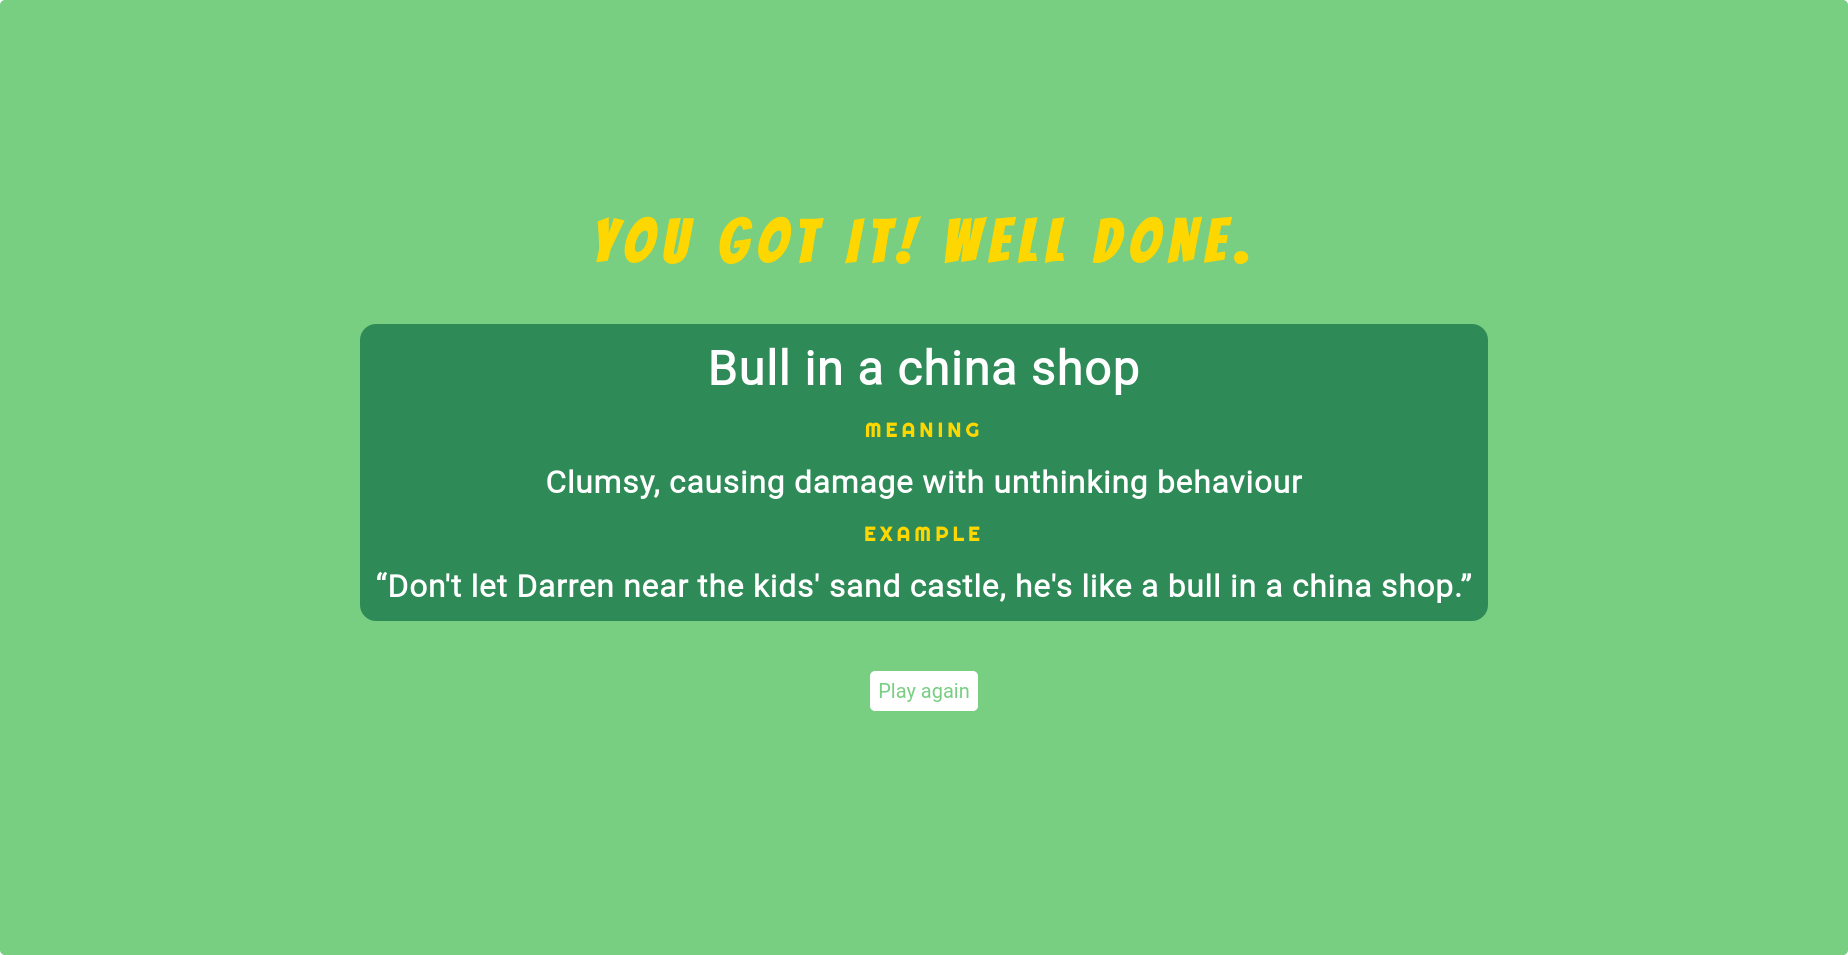
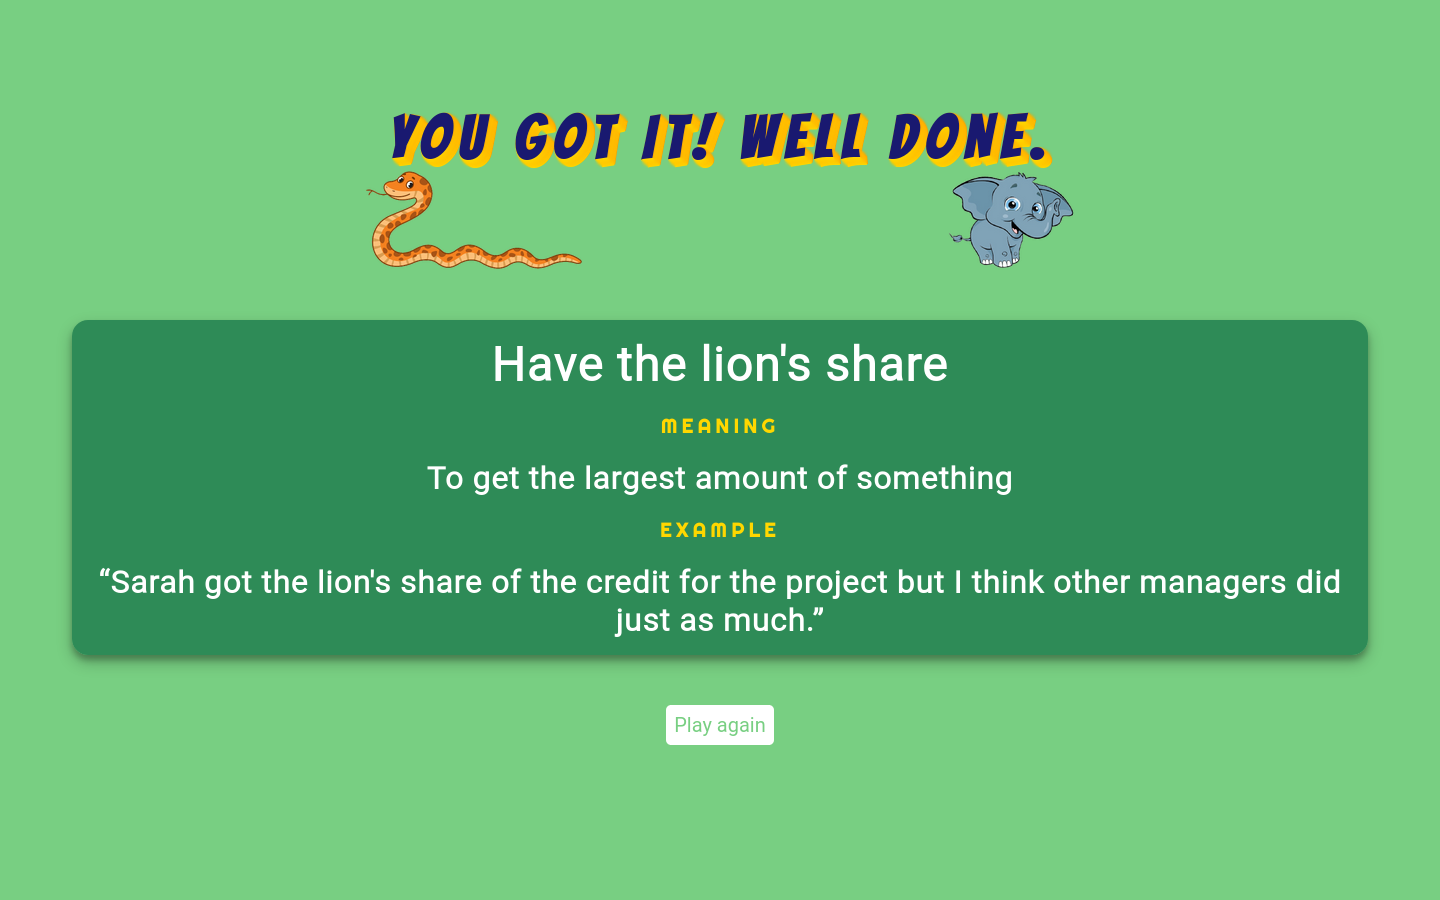
added background image and adapted colors for contrast

Changed region(s): [[0.0312, 0.1244, 0.9688, 0.7467], [0.4375, 0.7778, 0.5625, 0.84]]

diff --git a/css/styles.css b/css/styles.css
@@ -7,10 +7,8 @@
   --color-lose: #D94545;
   --color-start: #5b85b7;
   --color-neutral: #445069;
-  --color-neutral-light: #D2D2D2;
   --color-keys: #37474F;
-  --color-keys-light: #E5E5E5;
-  --color-keys-hover: #A0A0A0;
+  --color-keys-hover: #a64d4d;
   --font-size-large: 60px;
   --font-size-medium: 20px;
   --transition: all .2s ease-in-out;
@@ -26,23 +24,37 @@
 }
 
 body {
-  justify-content: space-evenly;
   flex-direction: column;
   display: flex;
   min-height: 100vh;
+  background-color: #a0cbd1;
+  background-image: url("../images/background.jpg");
+  background-size: contain;
+  background-repeat: no-repeat;
+  background-position: bottom;
 }
 
 main {
   display: flex;
   flex-direction: column;
-  justify-content: space-around;
   min-height: 100%;
   text-align: center;
+  margin-top: 2.5%;
 }
 
 li, ol, ul {
   padding: 0;
   display: inline-block;
+}
+
+ol {
+  background-color: #FFFFF0;
+  padding: .5rem .75rem .0;
+  border-radius: 20px;
+}
+
+h1 {
+  font-size: 0;
 }
 
 h2 {
@@ -88,7 +100,8 @@ h3 {
 }
 
 .title {
-  color: #FFD700;
+  color: midnightblue;
+  text-shadow: 0 1px 0px #FFD700, 1px 0 0px #FFA500, 1px 2px 1px #FFD700, 2px 1px 1px #FFA500, 2px 3px 2px #FFD700, 3px 2px 2px #FFA500, 3px 4px 2px #FFD700, 4px 3px 3px #FFA500, 4px 5px 3px #FFD700, 5px 4px 2px #FFA500, 5px 6px 2px #FFD700, 6px 5px 2px #FFA500, 6px 7px 1px #FFD700, 7px 6px 1px #FFA500, 7px 8px 0px #FFD700, 8px 7px 0px #FFA500;
 }
 
 .start {
@@ -152,6 +165,7 @@ h3 {
   max-width: 90%;
   padding: 1rem;
   border-radius: 1rem;
+  box-shadow: rgba(0, 0, 0, 0.25) 0px 7px 14px, rgba(0, 0, 0, 0.22) 0px 5px 5px;
 }
 
 .display h3 {
@@ -172,12 +186,13 @@ h3 {
 
 /* title */
 
-.header {
-  color: var(--color-start);
+.heading {
+  color: midnightblue;
+  text-shadow: 0 1px 0px #FFD700, 1px 0 0px #FFA500, 1px 2px 1px #FFD700, 2px 1px 1px #FFA500, 2px 3px 2px #FFD700, 3px 2px 2px #FFA500, 3px 4px 2px #FFD700, 4px 3px 3px #FFA500, 4px 5px 3px #FFD700, 5px 4px 2px #FFA500, 5px 6px 2px #FFD700, 6px 5px 2px #FFA500, 6px 7px 1px #FFD700, 7px 6px 1px #FFA500, 7px 8px 0px #FFD700, 8px 7px 0px #FFA500;
 }
 
-.subheader {
-  color: #777;
+.subheading {
+  color: maroon;
 }
 
 /* images */
@@ -214,7 +229,8 @@ img {
   margin-right: 2px;
   margin-bottom: 8px;
   color: transparent;
-  background: var(--color-neutral-light);
+  background: var(--color-neutral);
+  border: solid 2px var(--color-neutral);
   border-radius: 5px;
 }
 
@@ -228,8 +244,9 @@ img {
   margin-right: 2px;
   margin-bottom: 8px;
   color: #000;
-  background-color: #F0F8FF;
-  border: solid 1px;
+  background-color: white;
+  font-weight: bold;
+  border: solid 2px;
   border-radius: 5px;
   transition: var(--transition);
 }
@@ -239,9 +256,10 @@ img {
   width: 20px;
   margin-right: 2px;
   color: #000;
-  background-color: #F0F8FF;
-  border: solid 1px;
+  background-color: white;
+  border: solid 2px var(--color-neutral);
   border-radius: 5px;
+  font-weight: bold;
 }
 
 @media (min-width: 768px) {
@@ -282,8 +300,8 @@ button {
   margin: 6px;
   border: 1px solid transparent;
   padding: .5rem 1rem;
-  color: var(--color-keys);
-  background-color: var(--color-keys-light);
+  color: white;
+  background-color: maroon;
   border-radius: 5px;
   -webkit-transition: var(--transition);
   -o-transition: var(--transition);
@@ -349,4 +367,13 @@ button:hover {
     transform: translate3d(4px, 0, 0);
   }
 
+}
+
+/* attribution */
+
+.attribution {
+  font-size: .75rem;
+  position: fixed;
+  bottom: 0;
+  z-index: -1;
 }

diff --git a/index.html b/index.html
@@ -11,10 +11,14 @@
   </head>
   <body>
     <main>
-
+      <h1>Phrase guessing game</h1>
       <div id="overlay" class="start">
         <h2 class="title">Guess that Phrase</h2>
         <h3 class="subtitle">Animal Idioms</h3>
+        <div class="img_container">
+          <img src="./images/snake.png" alt="snake">
+          <img src="./images/elephant.png" alt="elephant">
+        </div>
         <div class="display">
           <div class="display__phrase"></div>
           <h3>Meaning</h3>
@@ -25,21 +29,18 @@
         <a class="btn__reset">Start Game</a>
       </div>
 
-      <div id="banner" class="section">
-        <h2 class="header">Guess that Phrase</h2>
-        <h3 class="subheader">Animal Idioms</h3>
-        <div class="img_container">
-          <img src="./images/snake.png" alt="snake">
-          <img src="./images/elephant.png" alt="elephant">
-        </div>
+      <div id="banner">
+        <h2 class="heading">Guess that Phrase</h2>
+        <h3 class="subheading">Animal Idioms</h3>
+
       </div>
 
-      <div id="phrase" class="section">
+      <div id="phrase">
         <span class="loading">Loading phrase...</span>
         <ul></ul>
       </div>
 
-      <div id="qwerty" class="section">
+      <div id="qwerty">
         <div class="keyrow">
           <button>q</button><button>w</button><button>e</button><button>r</button><button>t</button><button>y</button><button>u</button><button>i</button><button>o</button><button>p</button>
         </div>
@@ -51,7 +52,7 @@
         </div>
       </div>
 
-      <div id="scoreboard" class="section">
+      <div id="scoreboard">
         <ol>
           <li class="try"></li>
           <li class="try"></li>
@@ -61,6 +62,9 @@
         </ol>
       </div>
     </main>
+    <div class="attribution">
+        <a href="https://www.freepik.com/free-vector/cute-group-wild-animals-vector_3780571.htm#&position=2&from_view=detail#query=z&position=2&from_view=detail">Background image by rawpixel.com</a> on Freepik.
+    </div>
     <script src="app.js"></script>
   </body>
 </html>

diff --git a/README.md b/README.md
@@ -1,34 +1,39 @@
 # Phrase guessing game
 
 ## Initial project
+
 This project started out as a graded project for [Treehouse TechDegree - Front End Web Development](https://teamtreehouse.com/techdegree/front-end-web-development). The aim was to practice JavaScript DOM manipulation with a phrase guessing game and it was a great challenge and built my confidence in JavaScript.
 
 ## Improvement
+
 Months later, I moved the phrases from the client side to the server side hosted by Heroku. I also made some aesthetic improvements like animations and added definitions and examples of the phrases. I stuck with the original theme of animal idioms for the phrases and added more phrases, increasing the original five to twelve.
 
 **Update Aug 2022:** I moved the server to Firebase as Heroku was withdrawing its free hosting. I also added two new phrases and improved the mobile layout although tablet and desktop screens still offer a better user experience.
 
-# Links
+## Links
 
 API GitHub repository [Link](https://github.com/michagodfrey/phrase-api-firebase)
 
 Firebase live site [Link](https://us-central1-guess-animal-idiom.cloudfunctions.net/app/)
 
-# Screenshots
+## Screenshots
 
 ![Playing page](./images/guess-that-phrase.png)
 
 ![Win overlay](./images/guess-that-phrase-win.png)
 
-# Acknowledgements
-I followed along on the [#100Devs course lecture](https://www.twitch.tv/videos/1316131994) to set up the Heroku API.
+## Acknowledgements
 
-The animal clip art are from [Clipart Library](http://clipart-library.com/) and [here](http://clipart-library.com/clipart/orange-snake-cliparts_13.htm) and [here](http://clipart-library.com/clip-art/elephant-clipart-transparent-3.htm) specifically.
+The animal clip art images are from [Clipart Library](http://clipart-library.com/) and [here](http://clipart-library.com/clipart/orange-snake-cliparts_13.htm) and [here](http://clipart-library.com/clip-art/elephant-clipart-transparent-3.htm) specifically
+
+The background image is from [rawpixel.com on Freepik](https://www.freepik.com/free-vector/cute-group-wild-animals-vector_3780571.htm#&position=2&from_view=detail#query=z&position=2&from_view=detail)
 
 Start button hover effect adapted from [10) Glowing Icon Hover Effects](https://www.proglobalbusinesssolutions.com/css-hover-effects/)
 
 Shake animation adapted from [CSS Tricks](https://css-tricks.com/snippets/css/shake-css-keyframe-animation/)
 
+Heading text shadows generated with [HTML-CSS-JS](https://html-css-js.com/css/generator/text-shadow/)
+
 Spin animation adapted from [Coding Artist Web](https://codingartistweb.com/2021/05/flip-a-coin-html-css-javascript/)
 
-I wrote the meanings and examples of phrases with help from google. The [English Like a Native](https://englishlikeanative.co.uk/30-animal-idioms/) page provided the lion's share of the guidance for the phrases.
+I wrote the meanings and examples of phrases with help from google. The [English Like a Native](https://englishlikeanative.co.uk/30-animal-idioms/) page provided the lion's share of the guidance for the phrases
